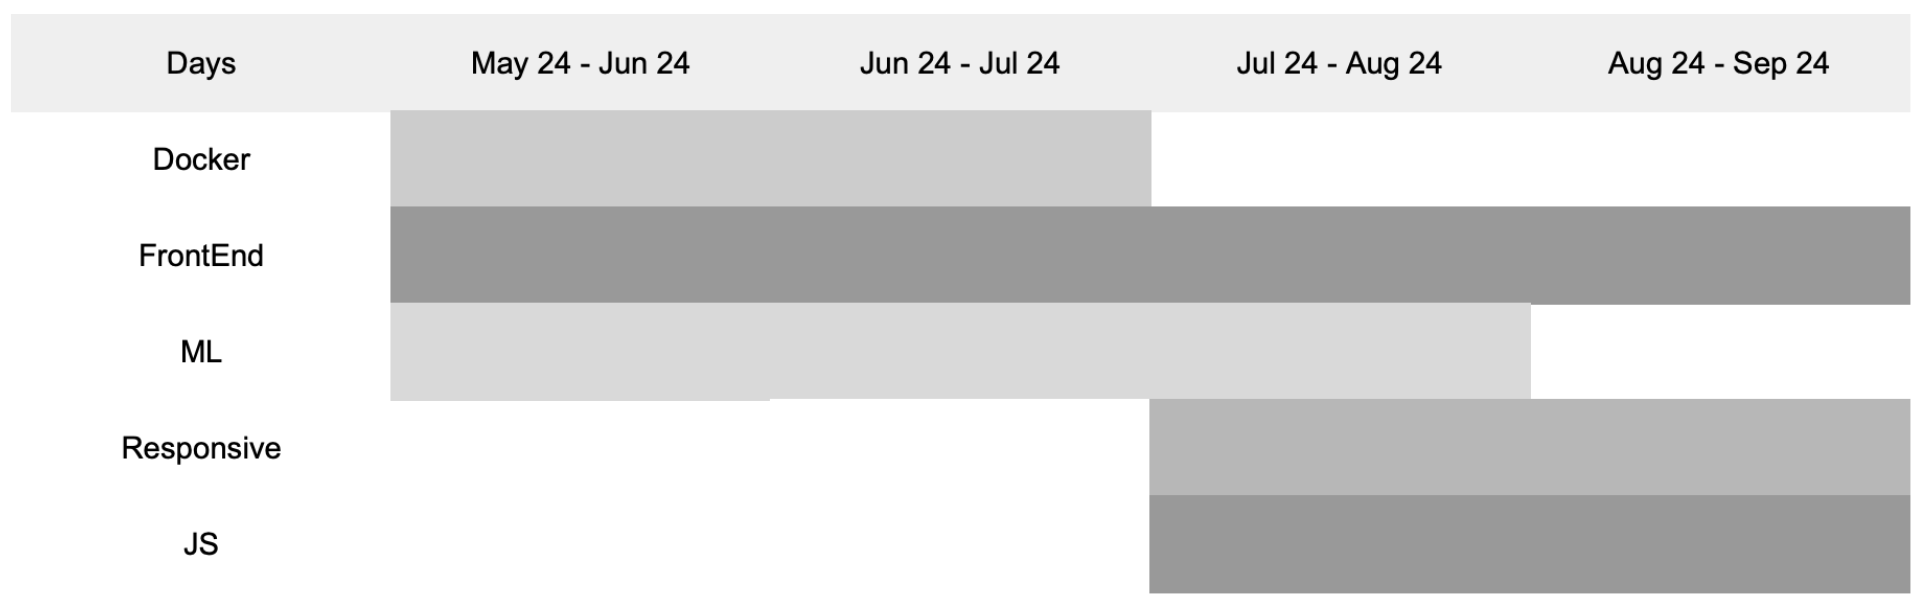
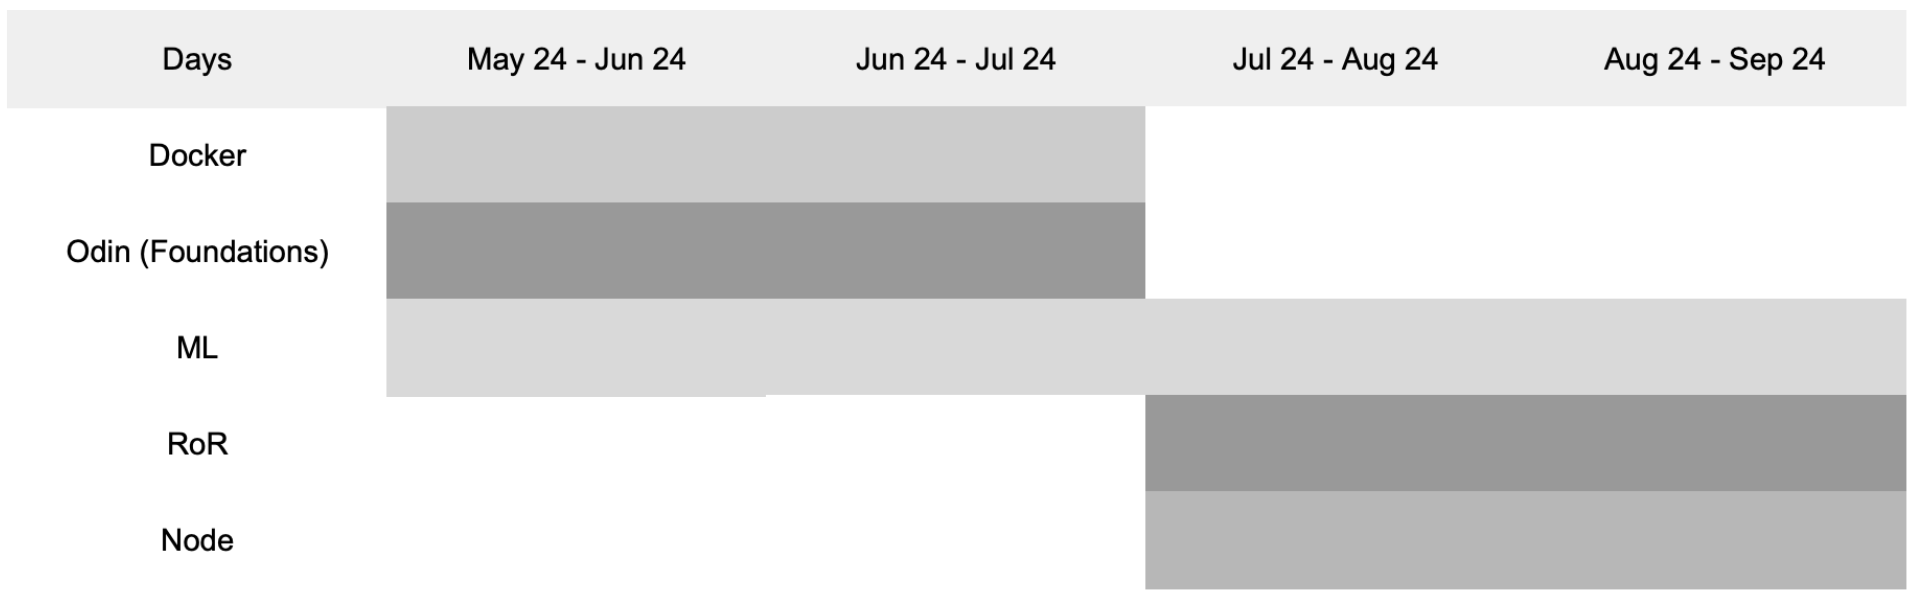
changes in the plan. ML and odin project will be studied for at least 6 months

diff --git a/_site/routine.html b/_site/routine.html
@@ -94,7 +94,7 @@
             <tr>
                 <td>Mon</td>
                 <td><a class="text-decoration-none" href="https://devopswithdocker.com/">Docker</a></td>
-                <td><a class="text-decoration-none" href="https://www.freecodecamp.org/learn/front-end-development-libraries/">FrontEnd</a></td>
+                <td><a class="text-decoration-none" href="https://www.theodinproject.com/paths/foundations/courses/foundations">Odin (Foundations)</a></td>
             </tr>
             <tr>
                 <td>Tue</td>
@@ -104,7 +104,7 @@
             <tr>
                 <td>Wed</td>
                 <td><a class="text-decoration-none" href="https://devopswithdocker.com/">Docker</a></td>
-                <td><a class="text-decoration-none" href="https://www.freecodecamp.org/learn/front-end-development-libraries/">FrontEnd</a></td>
+                <td><a class="text-decoration-none" href="https://www.theodinproject.com/paths/foundations/courses/foundations">Odin (Foundations)</a></td>
             </tr>
             <tr>
                 <td>Thu</td>
@@ -114,7 +114,7 @@
             <tr>
                 <td>Fri</td>
                 <td><a class="text-decoration-none" href="https://devopswithdocker.com/">Docker</a></td>
-                <td><a class="text-decoration-none" href="https://www.freecodecamp.org/learn/front-end-development-libraries/">FrontEnd</a></td>
+                <td><a class="text-decoration-none" href="https://www.theodinproject.com/paths/foundations/courses/foundations">Odin (Foundations)</a></td>
             </tr>
         </tbody>
     </table>
@@ -126,7 +126,7 @@
         <thead>
             <tr>
                 <th>7:30 - 8:30</th>
-                <th>8:30 - 12:30</th>
+                <th>9:00 - 12:45</th>
                 <th>6:30 - 9:30</th>
             </tr>
         </thead>
@@ -134,7 +134,7 @@
             <tr>
                 <td><a class="text-decoration-none" href="https://devopswithdocker.com/">Docker</a></td>
                 <td><a class="text-decoration-none" href="https://www.kaggle.com/learn">ML</a></td>
-                <td><a class="text-decoration-none" href="https://www.freecodecamp.org/learn/front-end-development-libraries/">FrontEnd</a></td>
+                <td><a class="text-decoration-none" href="https://www.theodinproject.com/paths/foundations/courses/foundations">Odin (Foundations)</a></td>
             </tr>
         </tbody>
     </table>
@@ -146,7 +146,7 @@
         <thead>
             <tr>
                 <th>7:30 - 8:30</th>
-                <th>8:30 - 12:30</th>
+                <th>9:00 - 12:45</th>
                 <th>6:30 - 9:30</th>
             </tr>
         </thead>
@@ -154,7 +154,7 @@
             <tr>
                 <td><a class="text-decoration-none" href="https://devopswithdocker.com/">Docker</a></td>
                 <td><a class="text-decoration-none" href="https://www.kaggle.com/learn">ML</a></td>
-                <td><a class="text-decoration-none" href="https://www.freecodecamp.org/learn/front-end-development-libraries/">FrontEnd</a></td>
+                <td><a class="text-decoration-none" href="https://www.theodinproject.com/paths/foundations/courses/foundations">Odin (Foundations)</a></td>
             </tr>
         </tbody>
     </table>

diff --git a/Pages/routine.md b/Pages/routine.md
@@ -23,7 +23,7 @@ permalink: /routine
             <tr>
                 <td>Mon</td>
                 <td><a class="text-decoration-none" href="https://devopswithdocker.com/">Docker</a></td>
-                <td><a class="text-decoration-none" href="https://www.freecodecamp.org/learn/front-end-development-libraries/">FrontEnd</a></td>
+                <td><a class="text-decoration-none" href="https://www.theodinproject.com/paths/foundations/courses/foundations">Odin (Foundations)</a></td>
             </tr>
             <tr>
                 <td>Tue</td>
@@ -33,7 +33,7 @@ permalink: /routine
             <tr>
                 <td>Wed</td>
                 <td><a class="text-decoration-none" href="https://devopswithdocker.com/">Docker</a></td>
-                <td><a class="text-decoration-none" href="https://www.freecodecamp.org/learn/front-end-development-libraries/">FrontEnd</a></td>
+                <td><a class="text-decoration-none" href="https://www.theodinproject.com/paths/foundations/courses/foundations">Odin (Foundations)</a></td>
             </tr>
             <tr>
                 <td>Thu</td>
@@ -43,7 +43,7 @@ permalink: /routine
             <tr>
                 <td>Fri</td>
                 <td><a class="text-decoration-none" href="https://devopswithdocker.com/">Docker</a></td>
-                <td><a class="text-decoration-none" href="https://www.freecodecamp.org/learn/front-end-development-libraries/">FrontEnd</a></td>
+                <td><a class="text-decoration-none" href="https://www.theodinproject.com/paths/foundations/courses/foundations">Odin (Foundations)</a></td>
             </tr>
         </tbody>
     </table>
@@ -55,7 +55,7 @@ permalink: /routine
         <thead>
             <tr>
                 <th>7:30 - 8:30</th>
-                <th>8:30 - 12:30</th>
+                <th>9:00 - 12:45</th>
                 <th>6:30 - 9:30</th>
             </tr>
         </thead>
@@ -63,7 +63,7 @@ permalink: /routine
             <tr>
                 <td><a class="text-decoration-none" href="https://devopswithdocker.com/">Docker</a></td>
                 <td><a class="text-decoration-none" href="https://www.kaggle.com/learn">ML</a></td>
-                <td><a class="text-decoration-none" href="https://www.freecodecamp.org/learn/front-end-development-libraries/">FrontEnd</a></td>
+                <td><a class="text-decoration-none" href="https://www.theodinproject.com/paths/foundations/courses/foundations">Odin (Foundations)</a></td>
             </tr>
         </tbody>
     </table>
@@ -75,7 +75,7 @@ permalink: /routine
         <thead>
             <tr>
                 <th>7:30 - 8:30</th>
-                <th>8:30 - 12:30</th>
+                <th>9:00 - 12:45</th>
                 <th>6:30 - 9:30</th>
             </tr>
         </thead>
@@ -83,7 +83,7 @@ permalink: /routine
             <tr>
                 <td><a class="text-decoration-none" href="https://devopswithdocker.com/">Docker</a></td>
                 <td><a class="text-decoration-none" href="https://www.kaggle.com/learn">ML</a></td>
-                <td><a class="text-decoration-none" href="https://www.freecodecamp.org/learn/front-end-development-libraries/">FrontEnd</a></td>
+                <td><a class="text-decoration-none" href="https://www.theodinproject.com/paths/foundations/courses/foundations">Odin (Foundations)</a></td>
             </tr>
         </tbody>
     </table>
